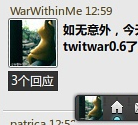
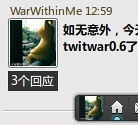
Finally

Changed region(s): [[0.058, 0.936, 0.5507, 1.0]]

diff --git a/css/style.css b/css/style.css
@@ -140,7 +140,13 @@ html, body { height: 100%; margin: 0px; padding: 0px; border: none; overflow: hi
 
 #rightColumn { width: 265px; float: left; margin-left: -265px; }
 
-#news { width: 100%; height: 100px; background: white url("../img/hmbg.png") repeat; }
+#news { width: 100%; height: 100px; position: relative; background: white url("../img/hmbg.png") repeat; }
+
+#quoteMark { position: absolute; top: 5px; left: 5px; }
+
+#quote { color: #452705; font-size: 20px; width: 100%; height: 105px; text-align: center; line-height: 105px; }
+
+#quoteFrom { color: #522a0c; position: absolute; font-size: 12px; bottom: 3px; right: 5px; }
 
 #nav { float: right; width: 265px; height: 60px; line-height: 60px; background: #000; color: #555; font-weight: bold; position: relative; }
 #nav ul { overflow: hidden; }
@@ -251,7 +257,7 @@ html, body { height: 100%; margin: 0px; padding: 0px; border: none; overflow: hi
 
 #solveSk:hover:before { background-position: -64px -64px; }
 
-#workWrapper { width: 90%; max-width: 612px; height: 100%; margin: 0 auto; }
+#workWrapper { width: 90%; max-width: 644px; height: 100%; margin: 0 auto; }
 
 #pinterestWrapper { width: 100%; height: 100%; float: left; }
 
@@ -288,6 +294,8 @@ html, body { height: 100%; margin: 0px; padding: 0px; border: none; overflow: hi
 .pinTitle, .pinTitleA, .pinStack { width: 100%; height: 30px; padding: 5px 0; text-align: center; font: 30px/30px Impact; color: #4a4a4a; background: #eee; -moz-border-radius: 0 0 5px 5px; -webkit-border-radius: 0 0 5px 5px; border-radius: 0 0 5px 5px; }
 
 .pinStack { height: 31px; border-top: 1px solid #a8a8a8; -webkit-transition: box-shadow .2s ease-in-out; -moz-transition: box-shadow .2s ease-in-out; -o-transition: box-shadow .2s ease-in-out; transition: box-shadow .2s ease-in-out; }
+.pinStack a { width: 24px; height: 20px; display: inline-block; background: url("../img/s2.png") -164px -70px no-repeat; content: " "; }
+.pinStack a:hover { background-position: -196px -70px; }
 
 .pinTitleA { position: absolute; bottom: 1px; border-bottom: 1px solid #555; -webkit-transform-origin: top; -moz-transform-origin: top; -o-transform-origin: top; transform-origin: top; -webkit-transition: all .2s ease-in-out; -moz-transition: all .2s ease-in-out; -o-transition: all .2s ease-in-out; transition: all .2s ease-in-out; }
 

diff --git a/js/script.js b/js/script.js
@@ -222,7 +222,42 @@ $(function()
         }
         $(html).appendTo($target);
     }
-    $target.masonry({isAnimated: true});
+
+    $target.watch("height", function()
+    {
+        if ($target.height() > $target.parent().height())
+        {
+            if (!$target.hasClass("scrollVisible"))
+            {
+                $target.addClass("scrollVisible");
+                $("#scrollBtnWrapper").show();
+            }
+            
+        } else {
+            if ($target.hasClass("scrollVisible"))
+            {
+                $target.removeClass("scrollVisible").stop(true,false).animate({"margin-top":"0px"});
+                $("#scrollBtnWrapper").hide();
+            }
+        }
+    }).imagesLoaded(function(){
+        $target.masonry({ isAnimated : true });
+    }).css({"margin-top" : "0px"});
+    $("#upBtn").click(function(){
+        var ph = $target.parent().height(),
+            m  = parseInt($target.css("margin-top")),
+            n  = m - ph * 0.9,
+            x  = ph - $target.outerHeight();
+        if (n < x) { n = x; }
+        if (n != m) { $target.stop(true,false).animate({"margin-top" : n + "px"}); }
+    });
+    $("#downBtn").click(function(){
+        var ph = $target.parent().height(),
+            m  = parseInt($target.css("margin-top")),
+            n  = m + ph * 0.9;
+        if (n > 0)  { n = 0; }
+        if (n != m) { $target.stop(true,false).animate({"margin-top" : n + "px"}); }
+    });
 });/*$*/
 
 });/*define*/

diff --git a/js/plugins/jqWatch.js b/js/plugins/jqWatch.js
@@ -1,0 +1,45 @@
+/*
+/* jQuery Watch Attributes Plugin v 1.0.0
+/* Copyright 2010
+/*
+/* Written By: Darcy Clarke
+/* URL: http://darcyclarke.me/
+/*
+/* */
+jQuery.fn.watch = function(props, callback, timeout){
+    var $ = jQuery;
+    if(!timeout)
+        timeout = 10;
+    return this.each(function(){
+        var el      = $(this), 
+            func    = function(){ __check.call(this, el) },
+            data    = { props:  props.split(","),
+                        func:   callback,
+                        vals:   [] };
+        $.each(data.props, function(i) { data.vals[i] = el.css(data.props[i]); });
+        el.data(data);
+        if (typeof (this.onpropertychange) == "object"){
+            el.bind("propertychange", callback);
+        } else if ($.browser.mozilla){
+            el.bind("DOMAttrModified", callback);
+        } else {
+            setInterval(func, timeout);
+        }
+    });
+    function __check(el) {
+        var data    = el.data(),
+            changed = false,
+            temp    = "";
+        for(var i=0;i < data.props.length; i++) {
+            temp = el.css(data.props[i]);
+            if(data.vals[i] != temp){
+                data.vals[i] = temp;
+                changed = true;
+                break;
+            }
+        }
+        if(changed && data.func) {
+            data.func.call(el, data);
+        }
+    }
+}

diff --git a/index.html b/index.html
@@ -43,7 +43,11 @@
                 </div>
 
                 <div id="rightColumn">
-                  <div id="news"></div>
+                  <div id="news">
+                    <img src="./img/quote.png" id="quoteMark"></img>
+                    <div id="quote">溃退吧，过时的人啊</div>
+                    <div id="quoteFrom">— 鲁鲁修·VI·布里塔尼亚</div>
+                  </div>
                   <div id="nav">
                     <ul>
                       <li><a href="" name="#skill">我的技能</a></li>
@@ -77,11 +81,7 @@
         <div class="container" id="work">
           <div id="workWrapper">
             <div id="pinterestWrapper">
-              <div id="pinterest">
-                
-
-
-              </div>
+              <div id="pinterest"></div>
             </div>
             <div id="scrollBtnWrapper">
               <div id="scrollBtnBg">

diff --git a/sass/_work.scss b/sass/_work.scss
@@ -8,7 +8,7 @@ $itemMargin    : 20px;
 
 #workWrapper {
     width     : 90%;
-    max-width : $itemWidth * 3 + $itemMargin * 5 + $btnBgWidth;
+    max-width : $itemWidth * 3 + $itemMargin * 5 + $btnBgWidth * 2;
     height    : 100%;
     margin    : 0 auto;
 }
@@ -185,6 +185,18 @@ $itemMargin    : 20px;
     -moz-transition    : box-shadow .2s ease-in-out;
     -o-transition      : box-shadow .2s ease-in-out;
     transition         : box-shadow .2s ease-in-out;
+
+    a {
+        width      : 24px;
+        height     : 20px;
+        display    : inline-block;
+        background : url("../img/s2.png") -164px -70px no-repeat;
+        content    : " ";
+
+        &:hover {
+            background-position: -196px -70px;
+        }
+    }
 }
 
 .pinTitleA {

diff --git a/sass/_main.scss b/sass/_main.scss
@@ -212,7 +212,31 @@ $rightWidth:      265px;
 #news {
     width: 100%;
     height: $middleHeight;
+    position: relative;
     background: #FFF url('../img/hmbg.png') repeat;
+}
+
+#quoteMark {
+    position : absolute;
+    top      : 5px;
+    left     : 5px;
+}
+
+#quote {
+    color       : #452705;
+    font-size   : 20px;
+    width       : 100%;
+    height      : $middleHeight + 5;
+    text-align  : center;
+    line-height : $middleHeight + 5;
+}
+
+#quoteFrom {
+    color     : #522a0c;
+    position  : absolute;
+    font-size : 12px;
+    bottom    : 3px;
+    right     : 5px;
 }
 
 // --- Nav (About below) ---

diff --git a/js/plugins/plugins.js b/js/plugins/plugins.js
@@ -1,5 +1,6 @@
 define(function(require) {
     
     require('./jqTextChange.js');
+    require('./jqWatch.js');
 
 })
